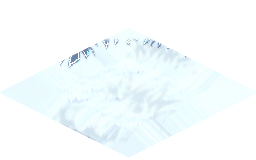
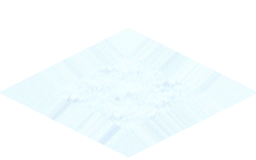
Eliminate dark scratches and seams on snow_tuft, ice_crystal, water_lily, and dirt_cracked

diff --git a/js/main.js b/js/main.js
@@ -294,10 +294,10 @@ const imageUrls = {
     tile_grass_olive: 'Biomas/Tiles/hd/grass_olive.png',
     tile_dirt_1: 'Biomas/Tiles/hd/dirt_1.png?v=20261111tiles',
     tile_dirt_2: 'Biomas/Tiles/hd/dirt_2.png?v=20261111tiles',
-    tile_dirt_cracked: 'Biomas/Tiles/hd/dirt_cracked.png?v=20261111tiles',
+    tile_dirt_cracked: 'Biomas/Tiles/hd/dirt_cracked.png?v=20261111tiles2',
     tile_water_1: 'Biomas/Tiles/hd/water_1.png?v=20261111tiles',
     tile_water_2: 'Biomas/Tiles/hd/water_2.png?v=20261111tiles',
-    tile_water_lily: 'Biomas/Tiles/hd/water_lily.png?v=20261111tiles',
+    tile_water_lily: 'Biomas/Tiles/hd/water_lily.png?v=20261111tiles2',
     tile_sand_1: 'Biomas/Tiles/hd/sand_1.png?v=20261111tiles',
     tile_sand_2: 'Biomas/Tiles/hd/sand_2.png?v=20261111tiles',
     tile_sand_flat: 'Biomas/Tiles/hd/sand_flat.png?v=20261111tiles',
@@ -310,10 +310,10 @@ const imageUrls = {
     tile_cemetery_skull: 'Biomas/Tiles/hd/cemetery_skull.png?v=20261111tiles',
     tile_snow_1: 'Biomas/Tiles/hd/snow_1.png?v=20261111tiles',
     tile_snow_2: 'Biomas/Tiles/hd/snow_2.png?v=20261111tiles',
-    tile_snow_tuft: 'Biomas/Tiles/hd/snow_tuft.png?v=20261111tiles',
+    tile_snow_tuft: 'Biomas/Tiles/hd/snow_tuft.png?v=20261111tiles2',
     tile_ice_1: 'Biomas/Tiles/hd/ice_1.png?v=20261111tiles',
     tile_ice_2: 'Biomas/Tiles/hd/ice_2.png?v=20261111tiles',
-    tile_ice_crystal: 'Biomas/Tiles/hd/ice_crystal.png?v=20261111tiles',
+    tile_ice_crystal: 'Biomas/Tiles/hd/ice_crystal.png?v=20261111tiles2',
     tile_magic_1: 'Biomas/Tiles/hd/magic_1.png',
     tile_magic_2: 'Biomas/Tiles/hd/magic_2.png',
     tile_magic_short: 'Biomas/Tiles/hd/magic_short.png',

diff --git a/index.html b/index.html
@@ -169,6 +169,6 @@
     </div>
 
     <!-- Cargar todos los scripts modulares -->
-    <script type="module" src="js/main.js?v=20261111tiles"></script>
+    <script type="module" src="js/main.js?v=20261111tiles2"></script>
 </body>
 </html>
